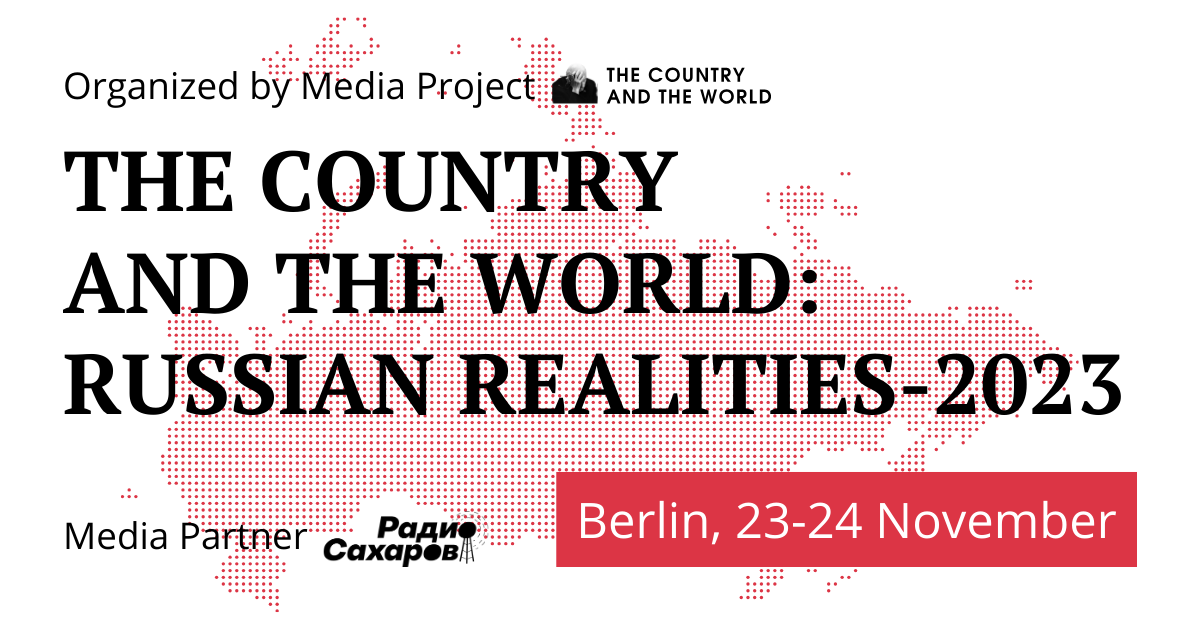
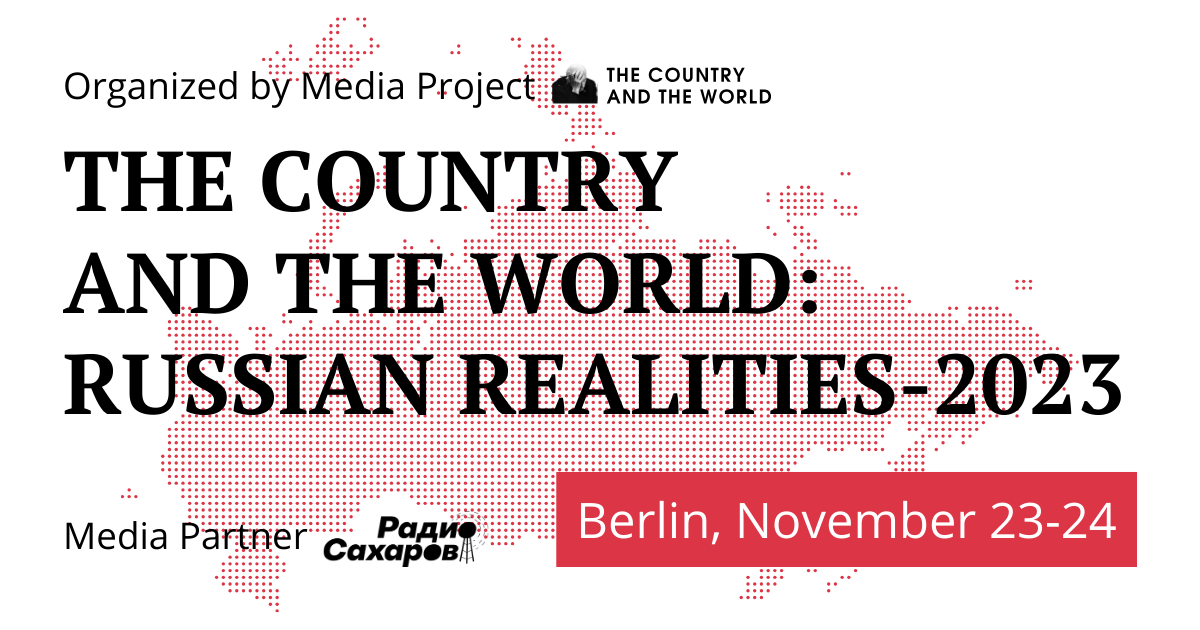
new

Changed region(s): [[0.6167, 0.7841, 0.925, 0.8746]]

diff --git a/layouts/index.html b/layouts/index.html
@@ -14,7 +14,7 @@
                     <div class="my-xl-5 mt-5 py-5">
                         <div class="fs-3">Organized by Media Project <a class="ms-lg-2" href="https://t.me/stranaimir" target="_blank"><img class="stmologo" src="stmlogoen.svg" alt="The Country and the World"/></a></div>
                         <h1 class="display-2 fw-bold text-uppercase my-5 ptserif">The country and the world: Russian Realities-2023</h1>
-                        <h2 class="display-6 my-5"><mark class="text-white bg-danger">Berlin, 23-24 November</mark></h2>
+                        <h2 class="display-6 my-5"><mark class="text-white bg-danger">Berlin, November 23-24</mark></h2>
                         <div class="fs-3 pt-4">Radio Sakharov is our Media Partner 
                             <a class="ms-lg-2" href="https://radiosakharov.org/" target="_blank">
                                 <img class="stmologo" src="rslogo.png" alt="Radio Sakharov"/>
@@ -25,7 +25,7 @@
             </div>
 
         <div class="lead my-5">
-            <p>On 23-24 November the international conference «The Country and the World: Russian Realities-2023» will take place in Berlin, following on from the «Russian Realities» conferences held by the Sakharov Centre in Moscow from 2018-2022. Since 2023, the conference has become an international one, with researchers and human rights activists from different countries taking part.</p>
+            <p>On November 23-24 the international conference «The Country and the World: Russian Realities-2023» will take place in Berlin, following on from the «Russian Realities» conferences held by the Sakharov Centre in Moscow in 2018-2022. Since 2023, the conference has become an international event, with researchers and human rights activists from different countries taking part.</p>
             <p>The purpose of the conference is to provide an overview of the situation in and around Russia in the context of Russia’s war against Ukraine. We will talk about the transformation of the political regime and its ideology, the state of Russian society, repression and war crimes, the new wave of emigration, international politics and economics.</p>
             <p>The conference will be broadcast on YouTube. The working languages will be Russian and English with simultaneous translation.</p>
             <p>Programme director: Sergey Lukashevsky.</p>
@@ -41,7 +41,7 @@
 
         {{partial "lists/session.html" (dict "ssnumber" 1 "ssname" "Evolution of the political regime during the war" "sstime" "10.00-12.00" "ssdesc" "Political outcomes of 2023. Putin is preparing for a long war - will the Russian political system be able to withstand it? Has Putin become a lame duck? Are influential siloviki beginning to prepare for different scenarios of ‟post-Putin” politics? The Prigozhin rebellion, regional power companies - are we entering a period of a new ‟redistribution of the cake”?" "badgeparam" "d-none" "onsitereg" "d-block") }}
 
-        {{partial "lists/speaker.html" (dict "name" "Kirill Rogov" "image" "rogov" "affiliation" "Political scientist, director of the Re:Russia project" "theme" "To be announced" "badgeparamsp" "d-block") }}
+        {{partial "lists/speaker.html" (dict "name" "Kirill Rogov" "image" "rogov" "affiliation" "Political scientist, director of the Re:Russia project" "theme" "Four myths about Russia: why you shouldn't look at Russia through Vladimir Putin's eyes" "badgeparamsp" "d-block") }}
         
         {{partial "lists/speaker.html" (dict "name" "Ivan Krastev" "image" "krastev" "affiliation" "Chairman of the Centre for Liberal Strategies (Sofia), senior researcher at the Vienna Institute for the Humanities (Vienna), member of the European Council on Foreign Relations" "theme" "The Russian regime seen from outside" "badgeparamsp" "d-block") }}
         

diff --git a/docs/index.html b/docs/index.html
@@ -106,7 +106,7 @@
                     <div class="my-xl-5 mt-5 py-5">
                         <div class="fs-3">Organized by Media Project <a class="ms-lg-2" href="https://t.me/stranaimir" target="_blank"><img class="stmologo" src="stmlogoen.svg" alt="The Country and the World"/></a></div>
                         <h1 class="display-2 fw-bold text-uppercase my-5 ptserif">The country and the world: Russian Realities-2023</h1>
-                        <h2 class="display-6 my-5"><mark class="text-white bg-danger">Berlin, 23-24 November</mark></h2>
+                        <h2 class="display-6 my-5"><mark class="text-white bg-danger">Berlin, November 23-24</mark></h2>
                         <div class="fs-3 pt-4">Radio Sakharov is our Media Partner 
                             <a class="ms-lg-2" href="https://radiosakharov.org/" target="_blank">
                                 <img class="stmologo" src="rslogo.png" alt="Radio Sakharov"/>
@@ -117,7 +117,7 @@
             </div>
 
         <div class="lead my-5">
-            <p>On 23-24 November the international conference «The Country and the World: Russian Realities-2023» will take place in Berlin, following on from the «Russian Realities» conferences held by the Sakharov Centre in Moscow from 2018-2022. Since 2023, the conference has become an international one, with researchers and human rights activists from different countries taking part.</p>
+            <p>On November 23-24 the international conference «The Country and the World: Russian Realities-2023» will take place in Berlin, following on from the «Russian Realities» conferences held by the Sakharov Centre in Moscow in 2018-2022. Since 2023, the conference has become an international event, with researchers and human rights activists from different countries taking part.</p>
             <p>The purpose of the conference is to provide an overview of the situation in and around Russia in the context of Russia’s war against Ukraine. We will talk about the transformation of the political regime and its ideology, the state of Russian society, repression and war crimes, the new wave of emigration, international politics and economics.</p>
             <p>The conference will be broadcast on YouTube. The working languages will be Russian and English with simultaneous translation.</p>
             <p>Programme director: Sergey Lukashevsky.</p>
@@ -160,7 +160,7 @@
                 </div>
             </div>
             <h6 class="lead text-body-secondary pe-lg-5">Political scientist, director of the Re:Russia project</h6>
-            <h5 class="display-7 fw-bold ptserif">To be announced</h5>
+            <h5 class="display-7 fw-bold ptserif">Four myths about Russia: why you shouldn&#39;t look at Russia through Vladimir Putin&#39;s eyes</h5>
         </div>
     </div>
 </div>
